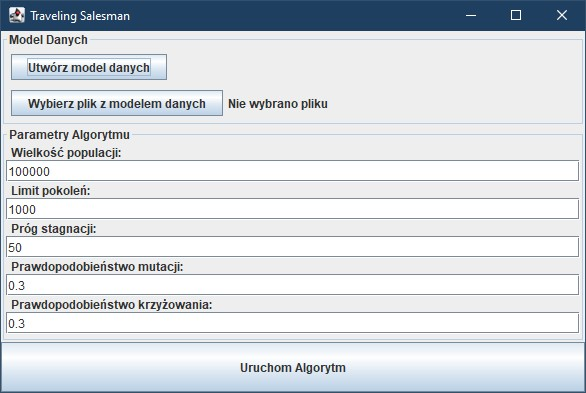
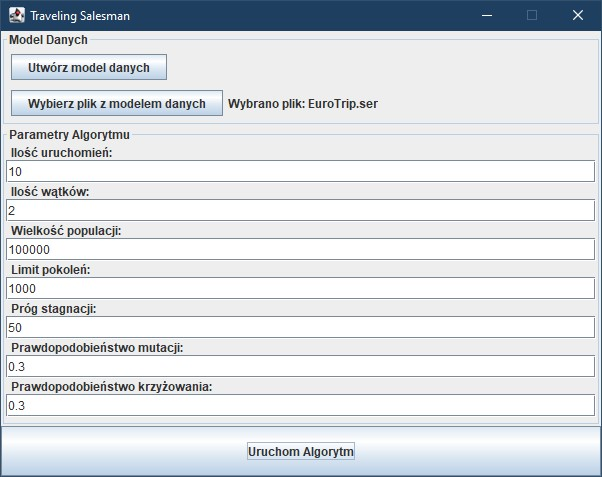
Updated report

Changed region(s): [[0.0, 0.0, 1.0, 0.8855], [0.0307, 0.916, 0.9829, 1.0], [0.9829, 0.4275, 1.0, 0.458]]

diff --git a/report/report.md b/report/report.md
@@ -120,7 +120,7 @@ Obiekt `DataModel` jest zapisywany do&nbsp;pliku, który wczytany jest przez apl
 
 1. **Inicjalizacja**
     * Wczytaj dane dla algorytmu `DataModel`
-    * Utwórz populację początkową genotypów (ścieżek) o&nbsp;rozmiarze `POPULATION_SIZE`.
+    * Utwórz populację początkową genotypów (ścieżek) o&nbsp;rozmiarze `populationSize`.
     * Każdy genotyp to&nbsp;permutacja miast.
 
 2. **Definicja funkcji oceny (fitness)**
@@ -133,16 +133,11 @@ Obiekt `DataModel` jest zapisywany do&nbsp;pliku, który wczytany jest przez apl
    * Powtórz, aż&nbsp;spełnione zostanie kryterium stopu (np.&nbsp;limit generacji lub stabilizacja fitnessu):
      * **Wybierz** osobniki do&nbsp;krzyżowania.
      * **Rekombinacja (crossover)**: dla wybranych par rodziców zastosuj operator PMX, by&nbsp;wymienić fragmenty ich genotypów i&nbsp;uzyskać nowe potomstwo.
-     * **Mutacja**: dla każdego potomka, z&nbsp;prawdopodobieństwem `MUTATION_PROBABILITY`, zamień dwa losowo wybrane miasta w&nbsp;trasie.
+     * **Mutacja**: dla każdego potomka, z&nbsp;prawdopodobieństwem `mutationProbability`, zamień dwa losowo wybrane miasta w&nbsp;trasie.
      * **Zastąp** starą populację osobnikami wybranymi na&nbsp;podstawie ich fitnessu.
 
-4. **Aktualizacja najlepszych wyników**
-   * Zapisz i&nbsp;wyświetl najlepszą ścieżkę (trasę) w&nbsp;każdej generacji.
-   * Aktualizuj wykres.
-
-5. **Zakończenie**
+4. **Zakończenie**
    * Wyświetl ostateczne rozwiązanie — najlepszą znalezioną trasę i&nbsp;jej długość.
-   * Zapisz wykres do&nbsp;pliku.
 
    
 **Szczegóły implementacji**:
@@ -155,15 +150,19 @@ Parametry są&nbsp;zdefiniowane w&nbsp;klasie `GeneticAlgorithmConfig`, co&nbsp;
 
    **Parametry**:
 
-   * **Wielkość populacji** (`POPULATION_SIZE`) - Liczba osobników w&nbsp;populacji; większa populacja sprzyja różnorodności rozwiązań, ale wydłuża czas obliczeń.
+   * **Ilość uruchomień** (`executionCount`) - Liczba wielokrotnych uruchomień algorytmu, co umożliwia analizę stabilności wyników i ocenę ich średnich wartości. Większa liczba uruchomień poprawia dokładność oceny wyników, ale wydłuża czas obliczeń.
+   
+   * **Liczba wątków** (`threadPoolSize`) - Określa liczbę wątków używanych do równoległego przetwarzania obliczeń algorytmu, co przyspiesza czas obliczeń przy odpowiednich zasobach sprzętowych.
 
-   * **Limit pokoleń** (`GENERATION_LIMIT`) - Maksymalna liczba generacji, po&nbsp;której algorytm kończy działanie, co&nbsp;pozwala kontrolować czas obliczeń przy bardziej czasochłonnych zadaniach.
+   * **Wielkość populacji** (`populationSize`) - Liczba osobników w&nbsp;populacji; większa populacja sprzyja różnorodności rozwiązań, ale wydłuża czas obliczeń.
 
-   * **Próg stagnacji** (`STEADY_FITNESS_GENERATION_LIMIT`) - Liczba generacji, po&nbsp;której algorytm kończy działanie, jeśli wartości fitness pozostają bez poprawy. Umożliwia to&nbsp;wcześniejsze zakończenie poszukiwań, gdy algorytm nie znajduje lepszych rozwiązań.
+   * **Limit pokoleń** (`generationLimit`) - Maksymalna liczba generacji, po&nbsp;której algorytm kończy działanie, co&nbsp;pozwala kontrolować czas obliczeń przy bardziej czasochłonnych zadaniach.
 
-   * **Prawdopodobieństwo mutacji** (`MUTATION_PROBABILITY`) - Prawdopodobieństwo mutacji dla każdego osobnika w&nbsp;populacji, co&nbsp;zwiększa różnorodność i&nbsp;zapobiega stagnacji w&nbsp;poszukiwaniu rozwiązań.
+   * **Próg stagnacji** (`steadyFitnessGenerationLimit`) - Liczba generacji, po&nbsp;której algorytm kończy działanie, jeśli wartości fitness pozostają bez poprawy. Umożliwia to&nbsp;wcześniejsze zakończenie poszukiwań, gdy algorytm nie znajduje lepszych rozwiązań.
 
-   * **Prawdopodobieństwo krzyżowania** (`PMX_CROSSOVER_PROBABILITY`) - Prawdopodobieństwo użycia operatora krzyżowania PMX (*Partially Matched Crossover*) podczas tworzenia nowego pokolenia. Operator krzyżowania umożliwia wymianę genotypów między osobnikami, co&nbsp;jest kluczowe dla uzyskania lepszych rozwiązań.
+   * **Prawdopodobieństwo mutacji** (`mutationProbability`) - Prawdopodobieństwo mutacji dla każdego osobnika w&nbsp;populacji, co&nbsp;zwiększa różnorodność i&nbsp;zapobiega stagnacji w&nbsp;poszukiwaniu rozwiązań.
+
+   * **Prawdopodobieństwo krzyżowania** (`crossoverProbability`) - Prawdopodobieństwo użycia operatora krzyżowania PMX (*Partially Matched Crossover*) podczas tworzenia nowego pokolenia. Operator krzyżowania umożliwia wymianę genotypów między osobnikami, co&nbsp;jest kluczowe dla uzyskania lepszych rozwiązań.
 
 3. **Operatorzy genetyczni**:
    * **Mutacja**: Operator `SwapMutator`, który losowo zamienia kolejność miast w&nbsp;ścieżce.
@@ -176,7 +175,7 @@ Funkcja ta&nbsp;służy do&nbsp;oceny uzyskanych rozwiązań na&nbsp;podstawie d
 Do&nbsp;wizualizacji przebiegu ewolucji zastosowano bibliotekę `JFreeChart` [[6]](#bibliografia), która umożliwia dynamiczne monitorowanie postępów algorytmu w&nbsp;czasie rzeczywistym. Wykresy ukazują zmiany wartości fitness najlepszych rozwiązań w&nbsp;kolejnych generacjach, a&nbsp;także wartości najgorsze oraz średnie dla całej generacji, co&nbsp;ułatwia ocenę efektywności algorytmu.
 
 6. **Wykonanie algorytmu**: 
-Algorytm działa w&nbsp;oddzielnym wątku, który wyznacza najlepsze rozwiązanie w&nbsp;każdej generacji i&nbsp;aktualizuje wykres w&nbsp;interfejsie graficznym. Po&nbsp;zakończeniu ewolucji algorytm zapisuje wykres do&nbsp;pliku oraz wyświetla najlepsze znalezione rozwiązanie.
+Algorytm działa w&nbsp;oddzielnym wątku, który wyznacza najlepsze rozwiązanie w&nbsp;każdej generacji i&nbsp;aktualizuje wykres w&nbsp;interfejsie graficznym. Po&nbsp;zakończeniu ewolucji algorytm wyświetla najlepsze znalezione rozwiązanie.
 
 7. **Interfejs użytkownika**:  
 Prosty i&nbsp;funkcjonalny interfejs, stworzony przy użyciu biblioteki `Swing` [[9]](#bibliografia), pozwalający na&nbsp;konfigurację parametrów i&nbsp;uruchamianie algorytmu ewolucyjnego oraz na&nbsp;generowanie i&nbsp;ładowanie modelu danych.
